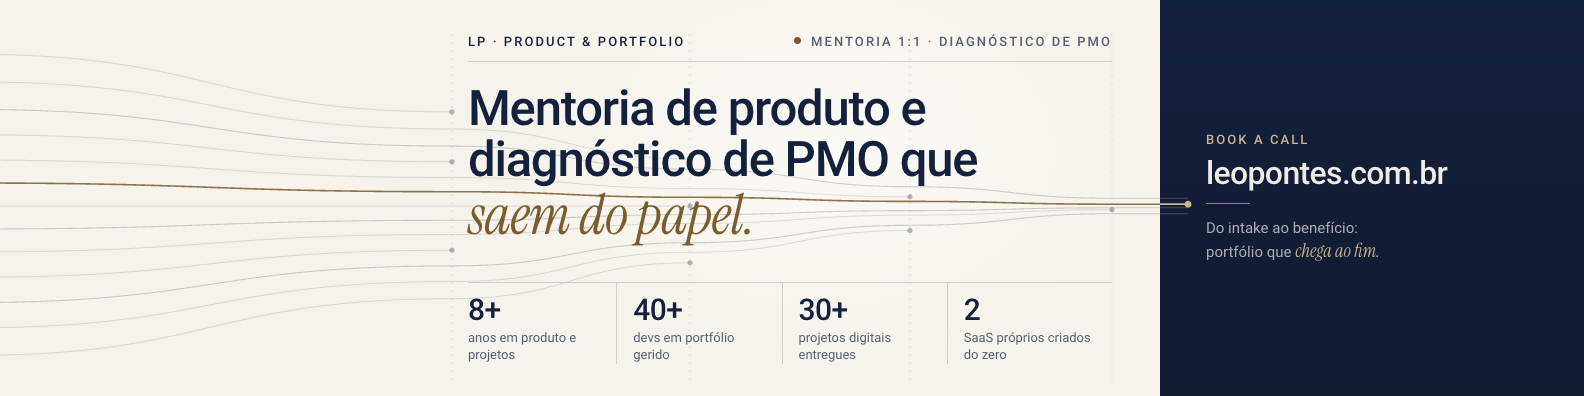
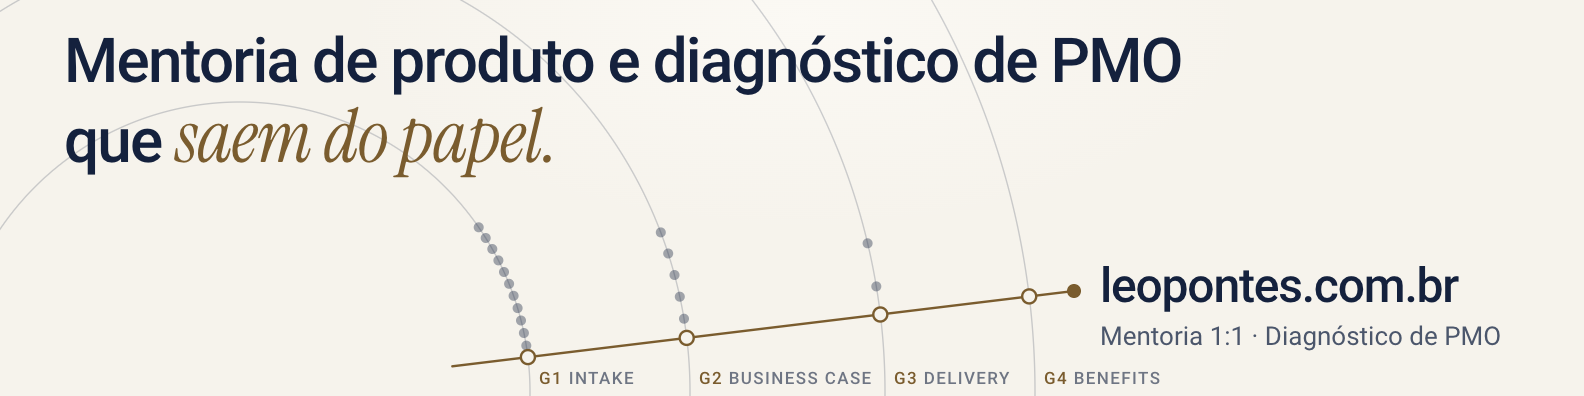
docs(linkedin): capa redesenhada em volta da foto de perfil
A versão anterior ficava ilegível no celular (a capa aparece a 45% e o texto
de 13 px virava 6 px) e não conversava com a foto. Agora a capa foi medida no
LinkedIn real: o título ocupa a faixa de cima, o endereço fica embaixo, à
direita da foto, e nenhum texto importante tem menos de 26 px. Os gates
G1–G4 viram anéis que irradiam da foto e a linha bronze sai dela até o
endereço do site. Simulação nas duas medidas em preview-com-foto.png.

diff --git a/docs/linkedin/banner.html b/docs/linkedin/banner.html
@@ -5,11 +5,15 @@
 <title>Banner LinkedIn</title>
 <!--
   Capa do LinkedIn (1584×396) na identidade do site: Papel & Marinho sobre os tokens LP Noir
-  (docs/DESIGN.md). O funil de gates é o mesmo desenho de src/components/art/funil.ts, esticado
-  para a faixa da capa: as iniciativas entram atrás da foto de perfil e só a linha de sinal chega
-  à faixa marinho, onde está o endereço do site.
-  O canto inferior esquerdo (x < 430, y > 190) fica livre: é onde o LinkedIn pousa a foto.
-  Como gerar as imagens: docs/linkedin/README.md.
+  (docs/DESIGN.md). Como gerar as imagens: docs/linkedin/README.md.
+
+  O texto mora só nos espaços que a foto de perfil deixa livres (medido no LinkedIn real):
+  - foto no desktop: círculo x 50–368, y 205 para baixo (capa a 74% do tamanho);
+  - foto no celular: círculo x 66–492, y 198 para baixo (capa a 45% do tamanho);
+  - botão de editar (só para o dono): canto superior direito, x > 1370, y < 215 no celular.
+  Por isso: o título ocupa a faixa de cima (y < 195), e o endereço fica embaixo, à direita
+  da foto. Nenhum texto abaixo de 26 px, que no celular ainda vira ~12 px.
+  Os gates (src/components/art/funil.ts) viram anéis que irradiam da foto; o sinal chega ao endereço.
 -->
 <style>
   @font-face {
@@ -27,13 +31,8 @@
     --paper: #f6f3ec;
     --paper-raised: #fbf9f4;
     --navy: #14213d;
-    --navy-deep: #0f1a31;
     --bronze: #7a5c2e;
-    --ivory: #f1ede4;
-    --champagne: #cfb48a;
-    --muted: color-mix(in oklab, var(--navy) 68%, var(--paper));
-    --line: color-mix(in oklab, var(--navy) 16%, var(--paper));
-    --band-x: 1160px;
+    --muted: color-mix(in oklab, var(--navy) 72%, var(--paper));
   }
   * { box-sizing: border-box; margin: 0; padding: 0; }
   html, body { width: 1584px; height: 396px; overflow: hidden; background: var(--paper); }
@@ -41,159 +40,81 @@
     font-family: "Roboto", system-ui, sans-serif; color: var(--navy);
     -webkit-font-smoothing: antialiased; text-rendering: geometricPrecision;
   }
-
   .banner { position: relative; width: 1584px; height: 396px; overflow: hidden; }
   .layer { position: absolute; inset: 0; }
   .layer svg { display: block; width: 100%; height: 100%; }
-
-  /* Luz ambiente suave atrás do título, como o .glass-spot do site. */
   .spot {
-    position: absolute; left: 380px; top: -160px; width: 900px; height: 620px;
-    background: radial-gradient(closest-side, var(--paper-raised), transparent 70%);
+    position: absolute; left: 200px; top: -260px; width: 1200px; height: 560px;
+    background: radial-gradient(closest-side, var(--paper-raised), transparent 75%);
   }
 
-  /* Faixa marinho à direita, como as cenas mata/cobalto/anil. */
-  .band {
-    position: absolute; top: 0; bottom: 0; left: var(--band-x); right: 0;
-    background: linear-gradient(180deg, var(--navy) 0%, var(--navy-deep) 100%);
-  }
-
-  .content {
-    position: absolute; left: 468px; top: 34px; width: 644px; height: 330px;
-    display: flex; flex-direction: column;
-  }
-  .caps {
-    font-size: 13px; font-weight: 500; letter-spacing: 0.16em; text-transform: uppercase;
-  }
-  .eyebrow {
-    display: flex; justify-content: space-between; align-items: center;
-    color: var(--muted); padding-bottom: 12px; border-bottom: 1px solid var(--line);
-  }
-  .eyebrow .on { color: var(--navy); }
-  .dot { display: inline-block; width: 7px; height: 7px; border-radius: 50%; background: var(--bronze); margin-right: 10px; vertical-align: 2px; }
-
+  /* Faixa de cima: livre em qualquer tela. */
   h1 {
-    margin-top: 22px;
-    font-size: 49px; line-height: 1.04; font-weight: 500; letter-spacing: -0.025em;
+    position: absolute; left: 64px; top: 30px;
+    font-size: 62px; line-height: 1; font-weight: 500; letter-spacing: -0.028em; white-space: nowrap;
   }
+  h1 .l2 { display: block; margin-top: 8px; }
   h1 em {
     font-family: "Instrument Serif", Georgia, serif; font-style: italic; font-weight: 400;
-    font-size: 1.14em; letter-spacing: -0.01em; color: var(--bronze);
+    font-size: 1.2em; letter-spacing: -0.01em; color: var(--bronze);
   }
 
-  .stats { margin-top: auto; display: flex; border-top: 1px solid var(--line); }
-  .stat { flex: 1; padding: 12px 16px 0 0; display: flex; flex-direction: column; gap: 5px; }
-  .stat + .stat { padding-left: 16px; border-left: 1px solid var(--line); }
-  .stat .v { font-size: 30px; font-weight: 500; letter-spacing: -0.02em; line-height: 1; }
-  .stat .l { font-size: 13px; line-height: 1.3; color: var(--muted); max-width: 136px; }
-
-  .cta {
-    position: absolute; left: calc(var(--band-x) + 46px); top: 0; bottom: 0; right: 40px;
-    display: flex; flex-direction: column; justify-content: center; gap: 10px;
-    color: var(--ivory);
-  }
-  .cta .k { color: var(--champagne); }
-  .cta .url { font-size: 32px; font-weight: 500; letter-spacing: -0.02em; line-height: 1; }
-  .cta .s { font-size: 15px; line-height: 1.4; color: color-mix(in oklab, var(--ivory) 72%, var(--navy)); }
-  .cta .s em { font-family: "Instrument Serif", Georgia, serif; font-size: 1.2em; color: var(--champagne); }
-  .cta .rule { width: 44px; height: 1px; background: var(--champagne); opacity: 0.7; margin: 4px 0; }
-
-  .gate-label {
-    position: absolute; top: 10px; font-size: 11px; font-weight: 500; letter-spacing: 0.16em;
-    text-transform: uppercase; color: color-mix(in oklab, var(--navy) 45%, var(--paper)); white-space: nowrap;
-    padding-left: 8px;
-  }
-  .gate-label b { color: var(--bronze); font-weight: 500; }
+  /* Embaixo, à direita da foto: onde o funil chega. */
+  .cta { position: absolute; left: 1100px; top: 262px; display: flex; flex-direction: column; gap: 12px; }
+  .url { font-size: 48px; font-weight: 500; letter-spacing: -0.025em; line-height: 1; }
+  .what { font-size: 26px; line-height: 1.15; color: var(--muted); }
 </style>
 </head>
 <body>
 <div class="banner">
   <div class="spot"></div>
-  <div class="band"></div>
   <div class="layer"><svg id="funil" viewBox="0 0 1584 396"></svg></div>
-  <div id="labels"></div>
-
-  <div class="content">
-    <div class="eyebrow caps">
-      <span class="on">LP · Product &amp; Portfolio</span>
-      <span><span class="dot"></span>Mentoria 1:1 · Diagnóstico de PMO</span>
-    </div>
-    <h1>Mentoria de produto e<br>diagnóstico de PMO que<br><em>saem do papel.</em></h1>
-    <div class="stats">
-      <div class="stat"><span class="v">8+</span><span class="l">anos em produto e projetos</span></div>
-      <div class="stat"><span class="v">40+</span><span class="l">devs em portfólio gerido</span></div>
-      <div class="stat"><span class="v">30+</span><span class="l">projetos digitais entregues</span></div>
-      <div class="stat"><span class="v">2</span><span class="l">SaaS próprios criados do zero</span></div>
-    </div>
-  </div>
-
+  <h1>Mentoria de produto e diagnóstico de PMO<span class="l2">que <em>saem do papel.</em></span></h1>
   <div class="cta">
-    <span class="k caps">Book a call</span>
     <span class="url">leopontes.com.br</span>
-    <span class="rule"></span>
-    <span class="s">Do intake ao benefício:<br>portfólio que <em>chega ao fim.</em></span>
+    <span class="what">Mentoria 1:1 · Diagnóstico de PMO</span>
   </div>
 </div>
 <script>
-  // Mesma lógica de src/components/art/funil.ts, em coordenadas da capa.
-  const W = 1584, H = 396, BAND = 1160;
-  const START_X = -30, END_X = BAND + 28, FOCUS_Y = 206;
+  // A foto de perfil é o centro: os gates da metodologia (funil.ts) viram anéis que irradiam dela.
+  // Muitas iniciativas no G1, cada vez menos para fora; a linha de sinal sai da foto, cruza os
+  // quatro gates e chega ao endereço. Centro entre o círculo do desktop (209,364) e o do celular
+  // (279,411); o primeiro anel (r 270) fica fora dos dois.
+  const CX = 240, CY = 392;
   const GATES = [
-    { id: 'G1', label: 'Intake', x: 452 },
-    { id: 'G2', label: 'Business case', x: 690 },
-    { id: 'G3', label: 'Delivery', x: 910 },
-    { id: 'G4', label: 'Benefits', x: 1112 },
+    { id: 'G1', label: 'Intake', r: 290, n: 11 },
+    { id: 'G2', label: 'Business case', r: 450, n: 6 },
+    { id: 'G3', label: 'Delivery', r: 645, n: 3 },
+    { id: 'G4', label: 'Benefits', r: 795, n: 1 },
   ];
-  // y de entrada (0–800 do funil original, reescalado para a altura da capa) e gate onde para.
-  const INICIATIVAS = [
-    [70, 0], [130, 1], [190, 4], [245, 0], [300, 2], [350, 4], [400, 1],
-    [450, 4], [500, 3], [555, 0], [610, 4], [665, 2], [725, 1],
-  ].map(([y, ate]) => ({ y: 14 + (y / 800) * (H - 28) + (FOCUS_Y - 198), ate }));
-  const APERTO = [1, 0.62, 0.38, 0.2, 0.08];
-  const yNoGate = (y0, g) => FOCUS_Y + (y0 - FOCUS_Y) * APERTO[g];
-  function curva(p) {
-    let d = `M${p[0][0]},${p[0][1].toFixed(1)}`;
-    for (let i = 1; i < p.length; i++) {
-      const [x0, y0] = p[i - 1], [x1, y1] = p[i], k = (x1 - x0) * 0.5;
-      d += ` C${(x0 + k).toFixed(1)},${y0.toFixed(1)} ${(x1 - k).toFixed(1)},${y1.toFixed(1)} ${x1},${y1.toFixed(1)}`;
+  const END = { x: 1074, y: 291 };
+  const ANG = Math.atan2(CY - END.y, END.x - CX); // direção do sinal
+  const pt = (r, a) => [CX + r * Math.cos(a), CY - r * Math.sin(a)];
+  let svg = '';
+  for (const g of GATES) {
+    svg += `<circle cx="${CX}" cy="${CY}" r="${g.r}" fill="none" stroke="#14213d" stroke-opacity="0.2" stroke-width="1.4"/>`;
+    // Iniciativas no anel, só no setor livre (abaixo do título: y > 214), afastadas do sinal.
+    const maxA = Math.asin(Math.min(1, (CY - 222) / g.r));
+    const minA = Math.asin((CY - 352) / g.r);
+    for (let i = 0; i < g.n; i++) {
+      const a = g.n === 1 ? ANG : minA + ((maxA - minA) * (i + 0.5)) / g.n;
+      if (g.n > 1 && Math.abs(a - ANG) < 0.035) continue;
+      const [x, y] = pt(g.r, a);
+      svg += `<circle cx="${x.toFixed(1)}" cy="${y.toFixed(1)}" r="5" fill="#14213d" fill-opacity="0.38"/>`;
     }
-    return d;
+    // Rótulo do gate onde o anel encontra a base da capa.
+    const lx = CX + Math.sqrt(g.r * g.r - 16 * 16);
+    svg += `<text x="${(lx + 9).toFixed(0)}" y="384" font-family="Roboto" font-weight="500" font-size="17" letter-spacing="1.4" fill="#14213d" fill-opacity="0.6"><tspan fill="#7a5c2e" fill-opacity="1">${g.id}</tspan> ${g.label.toUpperCase()}</text>`;
   }
-  const sobrev = INICIATIVAS.filter((i) => i.ate === 4);
-  const sinal = sobrev.reduce((a, b) => (Math.abs(b.y - FOCUS_Y) < Math.abs(a.y - FOCUS_Y) ? b : a));
-
-  let gates = '', linhas = '', paradas = '', sinalD = '', sinalFim = null;
-  for (const g of GATES)
-    gates += `<line x1="${g.x}" x2="${g.x}" y1="34" y2="${H - 14}" stroke="#14213d" stroke-opacity="0.12" stroke-width="1" stroke-dasharray="2 6"/>`;
-  for (const ini of INICIATIVAS) {
-    const p = [[START_X, ini.y]];
-    const ultimo = Math.min(ini.ate, 3);
-    for (let g = 0; g <= ultimo; g++) p.push([GATES[g].x, yNoGate(ini.y, g + 1)]);
-    if (ini.ate === 4) {
-      p.push([END_X, yNoGate(ini.y, 4)]);
-      if (ini === sinal) { sinalD = curva(p); sinalFim = p[p.length - 1]; continue; }
-      linhas += `<path d="${curva(p)}" fill="none" stroke="#14213d" stroke-opacity="0.2" stroke-width="1.1"/>`;
-    } else {
-      const [x, y] = p[p.length - 1];
-      linhas += `<path d="${curva(p)}" fill="none" stroke="#14213d" stroke-opacity="0.13" stroke-width="1"/>`;
-      paradas += `<circle cx="${x}" cy="${y.toFixed(1)}" r="2.6" fill="#14213d" fill-opacity="0.32"/>`;
-    }
+  // Sinal: da borda da foto até o endereço, um marco bronze em cada gate.
+  const [sx, sy] = pt(214, ANG);
+  svg += `<line x1="${sx.toFixed(1)}" y1="${sy.toFixed(1)}" x2="${END.x}" y2="${END.y}" stroke="#7a5c2e" stroke-width="2.4" stroke-linecap="round"/>`;
+  for (const g of GATES) {
+    const [x, y] = pt(g.r, ANG);
+    svg += `<circle cx="${x.toFixed(1)}" cy="${y.toFixed(1)}" r="7" fill="#f6f3ec" stroke="#7a5c2e" stroke-width="2.4"/>`;
   }
-  // Na faixa marinho, as sobreviventes seguem em marfim; o sinal em champagne.
-  const clipPapel = `<clipPath id="papel"><rect x="0" y="0" width="${BAND}" height="${H}"/></clipPath>`;
-  const clipFaixa = `<clipPath id="faixa"><rect x="${BAND}" y="0" width="${W - BAND}" height="${H}"/></clipPath>`;
-  const faixa = linhas.replaceAll('#14213d', '#f1ede4');
-  document.getElementById('funil').innerHTML = `
-    <defs>${clipPapel}${clipFaixa}</defs>
-    <g clip-path="url(#papel)">${gates}${linhas}${paradas}
-      <path d="${sinalD}" fill="none" stroke="#7a5c2e" stroke-opacity="0.85" stroke-width="1.6" stroke-linecap="round"/>
-    </g>
-    <g clip-path="url(#faixa)">${faixa}
-      <path d="${sinalD}" fill="none" stroke="#cfb48a" stroke-width="1.8" stroke-linecap="round"/>
-    </g>
-    <circle cx="${sinalFim[0]}" cy="${sinalFim[1].toFixed(1)}" r="3.4" fill="#cfb48a"/>`;
-  document.getElementById('labels').innerHTML = GATES.map((g) =>
-    `<span class="gate-label" style="left:${g.x}px;display:none"><b>${g.id}</b> ${g.label}</span>`).join('');
+  svg += `<circle cx="${END.x}" cy="${END.y}" r="7" fill="#7a5c2e"/>`;
+  document.getElementById('funil').innerHTML = svg;
 </script>
 </body>
 </html>

diff --git a/docs/linkedin/README.md b/docs/linkedin/README.md
@@ -9,11 +9,16 @@ Na identidade Papel & Marinho do site (veja [`../DESIGN.md`](../DESIGN.md)).
 | `preview-com-foto.png` | Simulação de como a capa fica com a foto por cima |
 | `banner.html` | Fonte da capa (Roboto e Instrument Serif desta pasta) |
 
-**A capa.** O título é o do hero do site, com "saem do papel" em serifa bronze. Ao fundo, o funil
-de gates G1–G4 (a mesma geometria de `src/components/art/funil.ts`): as iniciativas entram atrás
-da foto, várias param nos gates e só a linha de sinal chega à faixa marinho, onde está o endereço
-do site. O canto inferior esquerdo fica livre para a foto, e o endereço fica longe da borda direita,
-que o LinkedIn corta no celular.
+**A capa.** Foi desenhada em volta da foto de perfil, medida no LinkedIn real: no desktop a capa
+aparece a 74% do tamanho, no celular a 45%, e a foto cobre o canto inferior esquerdo (até x≈490 e
+de y≈200 para baixo no celular). Por isso o título ocupa a faixa de cima, o endereço fica embaixo,
+à direita da foto, e nenhum texto importante tem menos de 26 px.
+
+A arte nasce da foto: os gates da metodologia (G1 Intake, G2 Business case, G3 Delivery,
+G4 Benefits) são anéis que irradiam dela. Muitas iniciativas param no G1, cada vez menos nos anéis
+seguintes, e a linha bronze sai da foto, cruza os quatro gates e chega ao endereço do site.
+`preview-com-foto.png` mostra a capa com a foto nas duas medidas (desktop à esquerda, celular à
+direita).
 
 **A foto.** É o retrato do site, sem alteração no rosto, sobre um fundo de estúdio marinho com luz
 suave atrás da cabeça.
